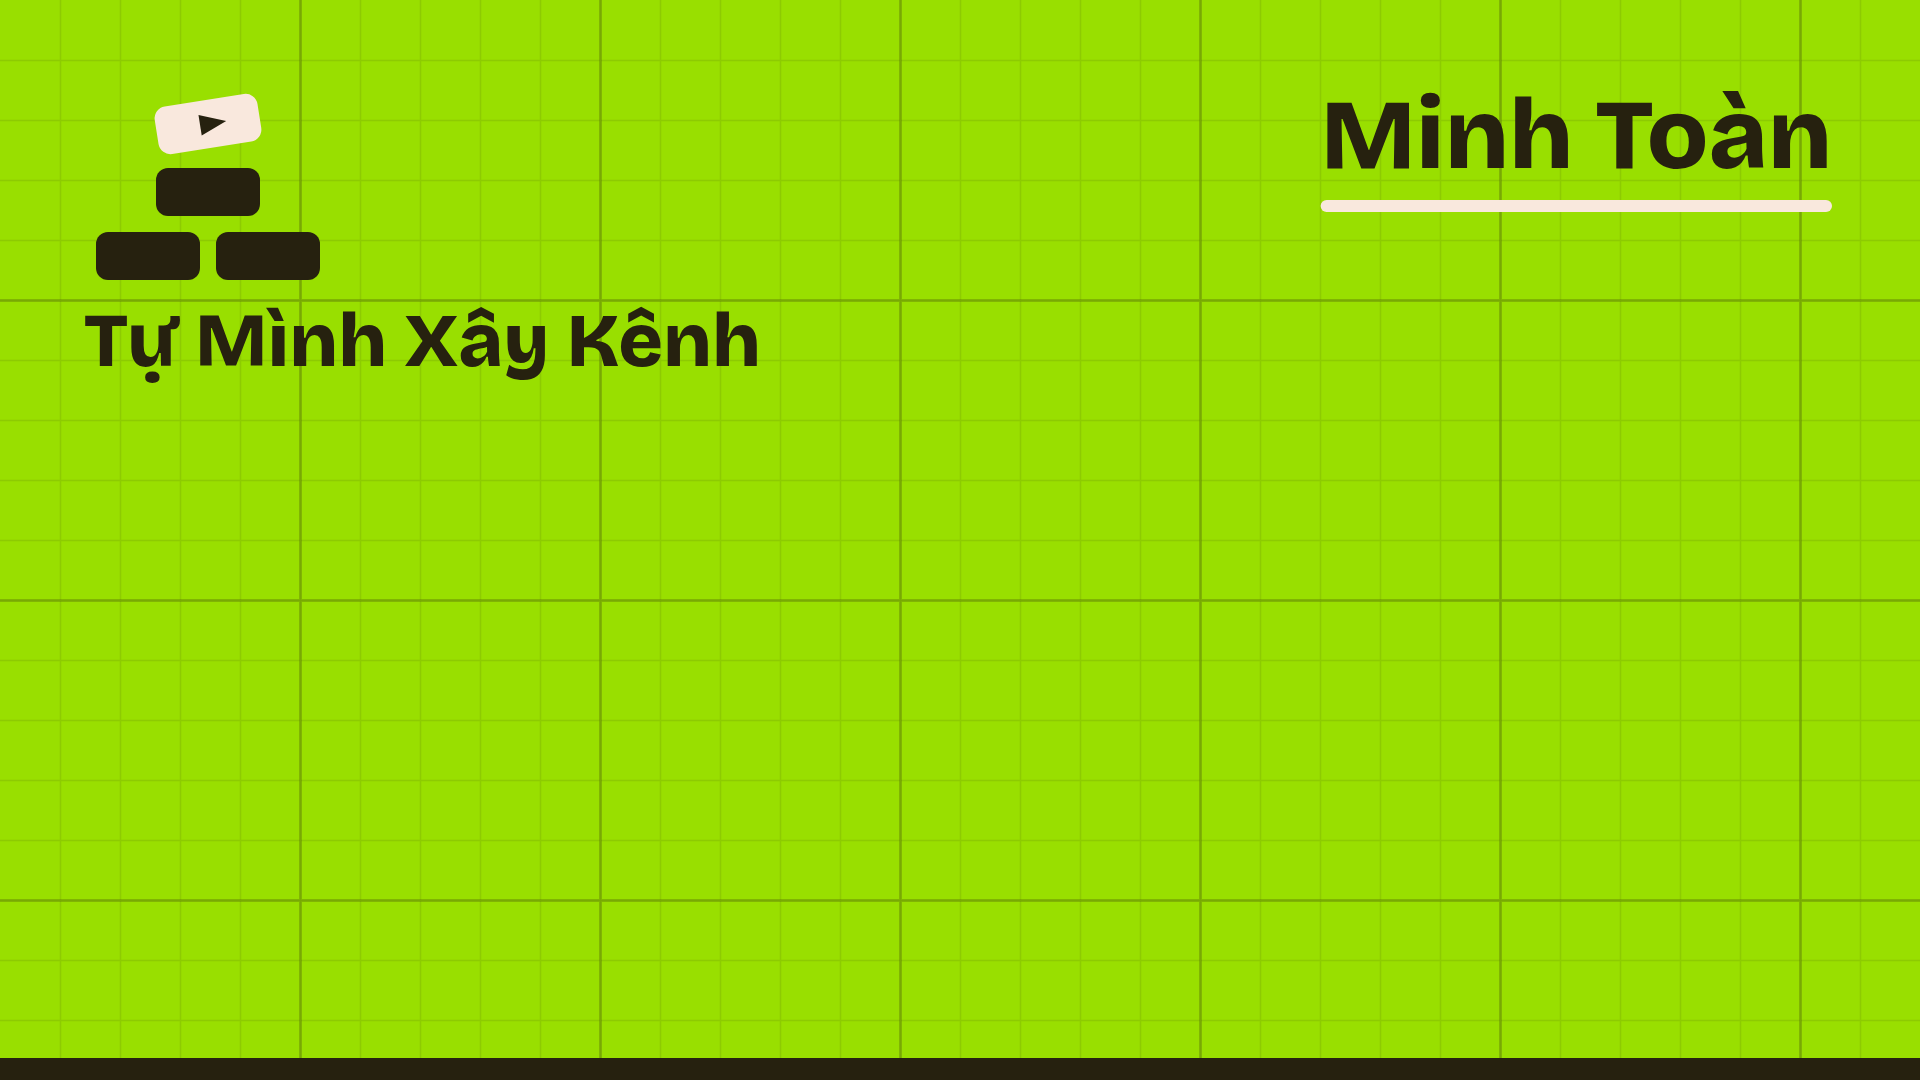
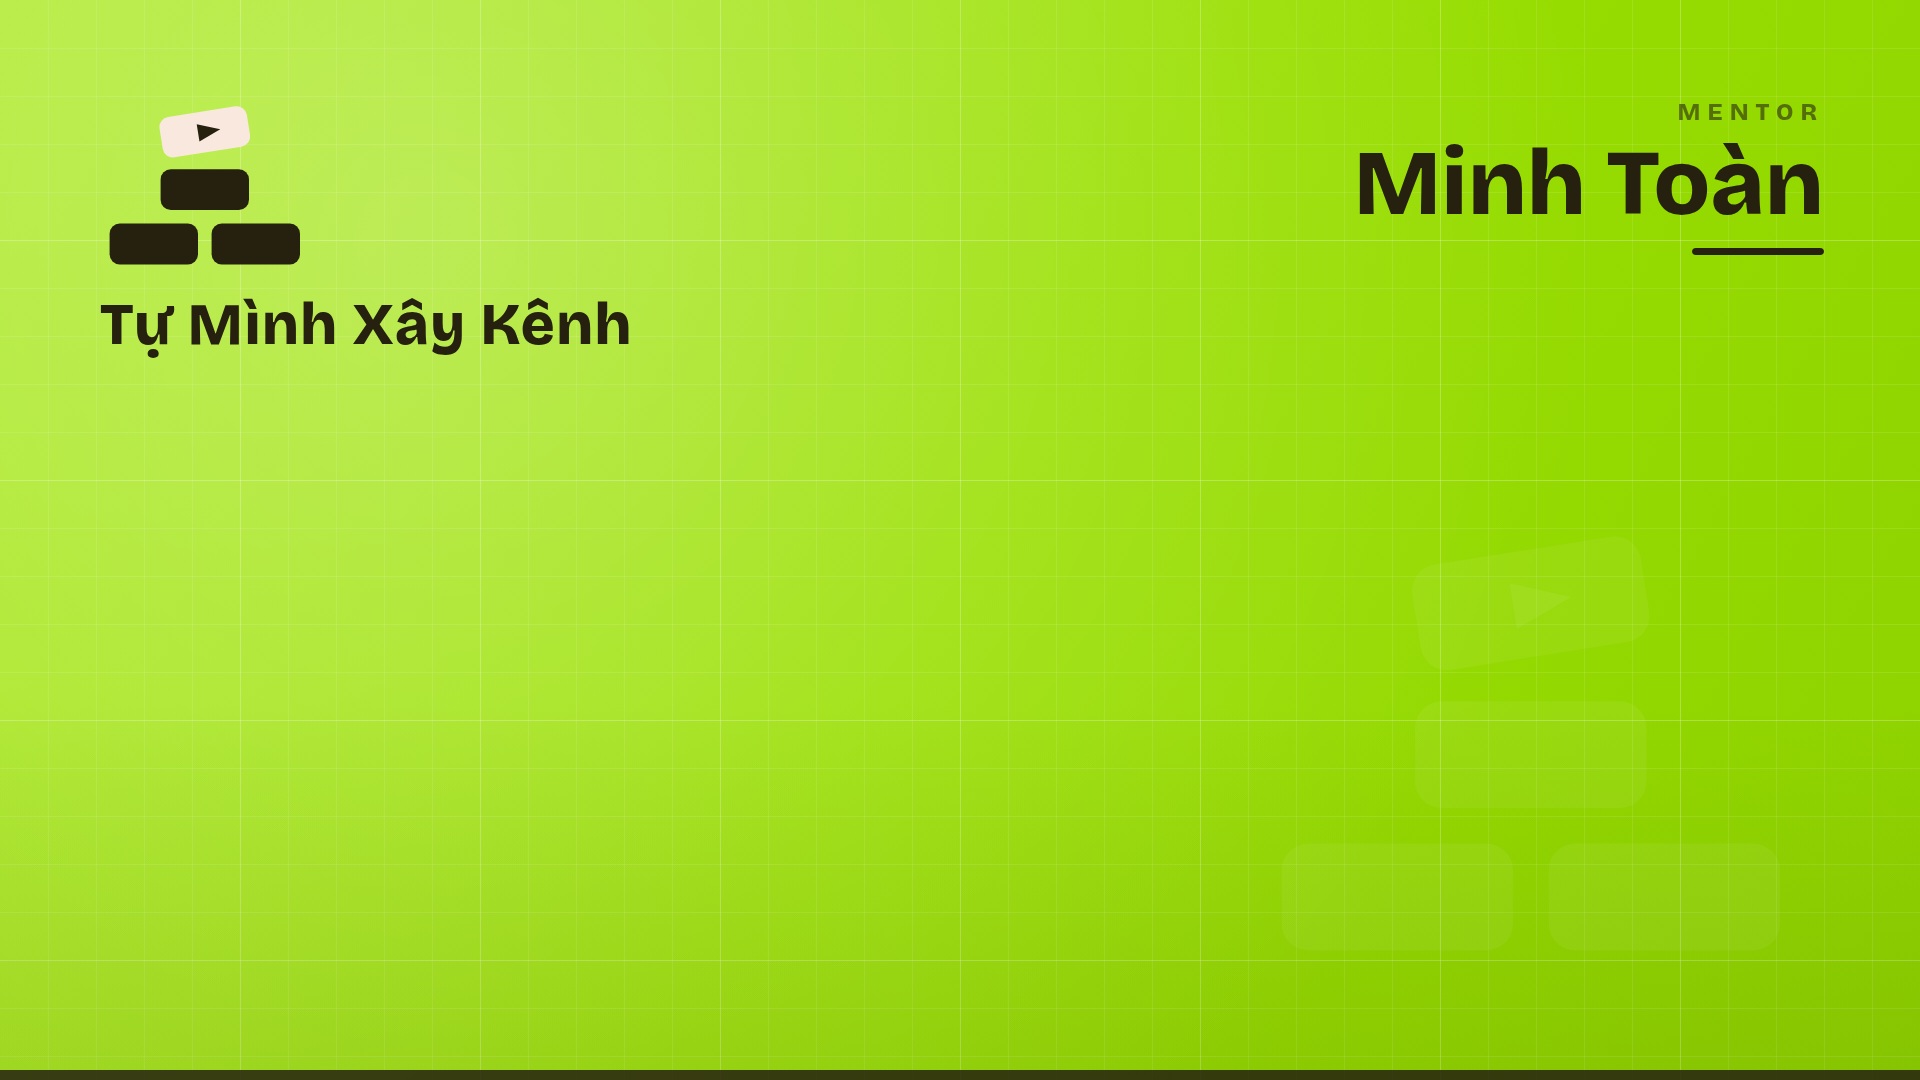
Nền lime: lưới mờ hẳn, nền chuyển sắc, bố cục nhẹ nhàng hơn
- Lưới đổi sang đường sáng 1px, ô 48px, mờ (11-17%) thay cho lưới mực đậm
- Nền chuyển sắc lime nhạt → đậm kèm quầng sáng sau logo cho đỡ phẳng
- Gạch chìm cỡ lớn mờ 6% ở góc phải dưới lấy chiều sâu
- Tên mentor có nhãn MENTOR giãn chữ ở trên, gạch chân ngắn thay vì kéo hết tên
- Vạch mực đáy khung mỏng lại còn 10px

Claude-Session: https://claude.ai/code/session_01VS1ud9fCmXpP6Ry2Ck6MDD

diff --git a/tools/tao-nen-teams.html b/tools/tao-nen-teams.html
@@ -70,17 +70,24 @@ function veMark(px,py,s,brick,play,dot){
   cx.restore();
 }
 
-/* Lưới kẻ: ô nhỏ 60px, cứ 5 ô một đường đậm */
-function veLuoi(mauMo,mauDam){
-  var i;
-  cx.lineWidth=1.5; cx.strokeStyle=mauMo; cx.beginPath();
-  for(i=60;i<1920;i+=60){ cx.moveTo(i+.5,0); cx.lineTo(i+.5,1080); }
-  for(i=60;i<1080;i+=60){ cx.moveTo(0,i+.5); cx.lineTo(1920,i+.5); }
+/* Lưới kẻ mờ: ô nhỏ buoc px, cứ 5 ô một đường rõ hơn một chút */
+function veLuoi(buoc,mauMo,mauDam){
+  var i, dam=buoc*5;
+  cx.lineWidth=1; cx.strokeStyle=mauMo; cx.beginPath();
+  for(i=buoc;i<1920;i+=buoc){ cx.moveTo(i+.5,0); cx.lineTo(i+.5,1080); }
+  for(i=buoc;i<1080;i+=buoc){ cx.moveTo(0,i+.5); cx.lineTo(1920,i+.5); }
   cx.stroke();
-  cx.lineWidth=3; cx.strokeStyle=mauDam; cx.beginPath();
-  for(i=300;i<1920;i+=300){ cx.moveTo(i+.5,0); cx.lineTo(i+.5,1080); }
-  for(i=300;i<1080;i+=300){ cx.moveTo(0,i+.5); cx.lineTo(1920,i+.5); }
+  cx.lineWidth=1; cx.strokeStyle=mauDam; cx.beginPath();
+  for(i=dam;i<1920;i+=dam){ cx.moveTo(i+.5,0); cx.lineTo(i+.5,1080); }
+  for(i=dam;i<1080;i+=dam){ cx.moveTo(0,i+.5); cx.lineTo(1920,i+.5); }
   cx.stroke();
+}
+
+/* Chữ căn phải, trả về bề rộng để vẽ gạch chân */
+function chuPhai(t,x,y){
+  var w=cx.measureText(t).width;
+  cx.fillText(t,x-w,y);
+  return w;
 }
 
 /* Nền sáng / tối: logo vừa, tên cùng hàng bên phải */
@@ -105,22 +112,47 @@ function veCoBan(ten){
   ro(0,1058,1920,22,0);                       // vạch lime đáy khung
 }
 
-/* Nền lime kẻ lưới: logo to xếp dọc góc trái, tên mentor góc phải trên */
+/* Nền lime kẻ lưới: dịu mắt, logo to góc trái, tên mentor góc phải trên */
 function veLime(ten){
-  cx.fillStyle=LIME; cx.fillRect(0,0,1920,1080);
-  veLuoi('rgba(38,33,15,.10)','rgba(38,33,15,.20)');
+  var g=cx.createLinearGradient(0,0,1920,1080);   // chuyển sắc nhẹ cho đỡ phẳng
+  g.addColorStop(0,'#aeea2b'); g.addColorStop(.5,LIME); g.addColorStop(1,'#8ed200');
+  cx.fillStyle=g; cx.fillRect(0,0,1920,1080);
 
-  veMark(80,56,4,INK,PAPER,INK);              // viên gạch hôm nay đổi sang màu giấy cho nổi trên lime
+  var q=cx.createRadialGradient(420,240,40,420,240,1180);  // quầng sáng sau logo
+  q.addColorStop(0,'rgba(255,255,255,.26)'); q.addColorStop(1,'rgba(255,255,255,0)');
+  cx.fillStyle=q; cx.fillRect(0,0,1920,1080);
 
-  cx.fillStyle=INK; cx.textBaseline='alphabetic';
-  cx.font='800 76px "Bricolage Grotesque",sans-serif';
-  cx.fillText('Tự Mình Xây Kênh',84,366);
+  veLuoi(48,'rgba(255,255,255,.11)','rgba(255,255,255,.17)');  // lưới sáng, mảnh 1px
 
-  cx.font='800 100px "Bricolage Grotesque",sans-serif';
-  var w=cx.measureText(ten).width, x=1832-w;
-  cx.fillText(ten,x,168);
-  cx.fillStyle=PAPER; ro(x,200,w,12,6);       // gạch chân giấy dưới tên
-  cx.fillStyle=INK;   ro(0,1058,1920,22,0);   // vạch mực đáy khung
+  cx.save(); cx.globalAlpha=.06;                  // gạch chìm góc phải dưới cho có chiều sâu
+  veMark(1246,452,8.9,'#ffffff','#ffffff','#ffffff');
+  cx.restore();
+
+  var d=cx.createLinearGradient(0,700,0,1080);    // tối chân khung, chữ ở dưới vẫn đọc được
+  d.addColorStop(0,'rgba(38,33,15,0)'); d.addColorStop(1,'rgba(38,33,15,.08)');
+  cx.fillStyle=d; cx.fillRect(0,700,1920,380);
+
+  veMark(96,74,3.4,INK,PAPER,INK);                // viên gạch hôm nay màu giấy cho nổi trên lime
+
+  cx.textBaseline='alphabetic';
+  cx.fillStyle=INK;
+  cx.font='800 58px "Bricolage Grotesque",sans-serif';
+  cx.letterSpacing='1px';
+  cx.fillText('Tự Mình Xây Kênh',100,344);
+  cx.letterSpacing='0px';
+
+  cx.fillStyle='rgba(38,33,15,.58)';              // nhãn nhỏ trên tên mentor
+  cx.font='800 24px "Bricolage Grotesque",sans-serif';
+  cx.letterSpacing='7px';
+  chuPhai('MENTOR',1824,120);
+  cx.letterSpacing='0px';
+
+  cx.fillStyle=INK;
+  cx.font='800 92px "Bricolage Grotesque",sans-serif';
+  chuPhai(ten,1824,214);
+  ro(1824-132,248,132,7,4);                       // gạch chân ngắn, không kéo hết tên
+
+  cx.fillStyle='rgba(38,33,15,.85)'; ro(0,1070,1920,10,0);   // vạch mực mảnh đáy khung
 }
 
 function ve(){
@@ -131,8 +163,9 @@ function ve(){
 function veKhiSanFont(){
   var f1=document.fonts.load('800 100px "Bricolage Grotesque"');
   var f2=document.fonts.load('800 78px "Bricolage Grotesque"');
-  var f3=document.fonts.load('800 76px "Bricolage Grotesque"');
-  Promise.all([f1,f2,f3]).then(ve).catch(ve);
+  var f3=document.fonts.load('800 58px "Bricolage Grotesque"');
+  var f4=document.fonts.load('800 92px "Bricolage Grotesque"');
+  Promise.all([f1,f2,f3,f4]).then(ve).catch(ve);
 }
 
 document.getElementById('ten').addEventListener('input',ve);
